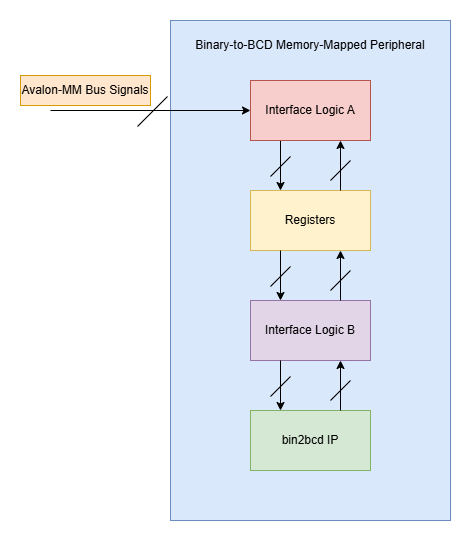
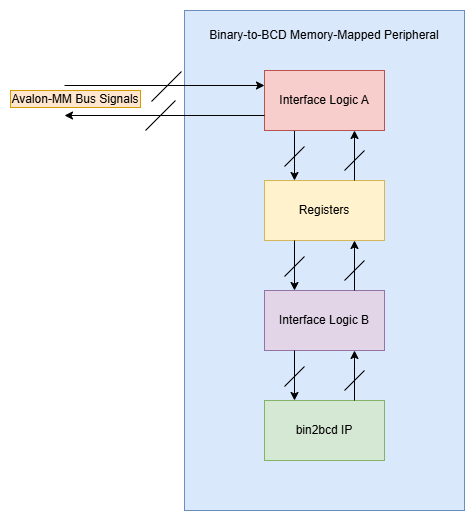
[RJX]: bin2bcd_mm documentation and development work in progress.

Changed region(s): [[0.0, 0.0, 0.9809, 0.9808], [0.5945, 0.7969, 0.7431, 0.8276], [0.5945, 0.3985, 0.7431, 0.4291]]

diff --git a/RTL/memory_mapped/bin2bcd_mm/README.md b/RTL/memory_mapped/bin2bcd_mm/README.md
@@ -1,12 +1,37 @@
 # Memory-mapped design: bin2bcd_mm  
 
+The `bin2bcd_mm` is a custom avalon-bus-compliant binary-to-bcd memory-mapped peripheral designed and implemented by Olaoluwa Raji and tested on the Terasic DE1-SoC board. The custom `bin2bcd` IP is generic and can easily be ported to another FPGA/SoC board.  
+
 ## Hardware Design  
 
+### Overview
+In order to facilitate two-way communication between a hard processor and custom IP which resides in the FPGA fabric of an SoC, we need to leverage the SoC manufacturer's supported on-chip bus protocols. The Terasic board uses an Altera Cyclone V SoC which contains a hard processor (HPS) capable of communicating with other on-chip components using the AXI protocol. In this design, the `bin2bcd_mm` peripheral is implemented on the FPGA side of the Altera SoC and it understands the Avalon protocol. The Intel Platform Designer tool is required to generate the interconnect logic that translates the AXI signals from the HPS to the Avalon signals the `bin2bcd_mm` peripheral understands. At the end of the day, we want the processor to send binary data to the `bin2bcd` IP and receive BCD data from it. The processor will run a simple C application on top of the Linux kernel.  
+
+<p align="center">
+    <img width=60% src="../../../Images/bin2bcd_mm_overview.png">
+</p>  
+
+### Peripheral architecture
 <p align="center">
     <img width=60% src="../../../Images/bin2bcd_mm.png">
 </p>  
 
 ## Programmer's Model  
+
+| Register | Offset | Access | Description
+| :---: | :---: | :---: | --- 
+| Status | 0x00 | R | Provides information about the peripheral's state to the HPS/software.  Bit 0 (BUSY) is set when a binary-to-bcd conversion is ongoing and cleared if not. The HPS software can check the BUSY bit before sending data to the Input Data Register (IDR). Bit 1 (DONE) is set when a conversion is completed. Bit 0 (BUSY) and Bit 1 (DONE) are set/cleared by hardware and are both read-only. The remaining bits in this register are reserved and set to 0.    
+| Control | 0x04 | R/W | 
+| Input Data | 0x08 | R/W | 
+| Output Data | 0x0C | R | 
+
+### Status Register (SR) 
+
+### Control Register (CR) 
+
+### Input Data Register (IDR) 
+
+### Output Data Register (ODR) 
 
 
 